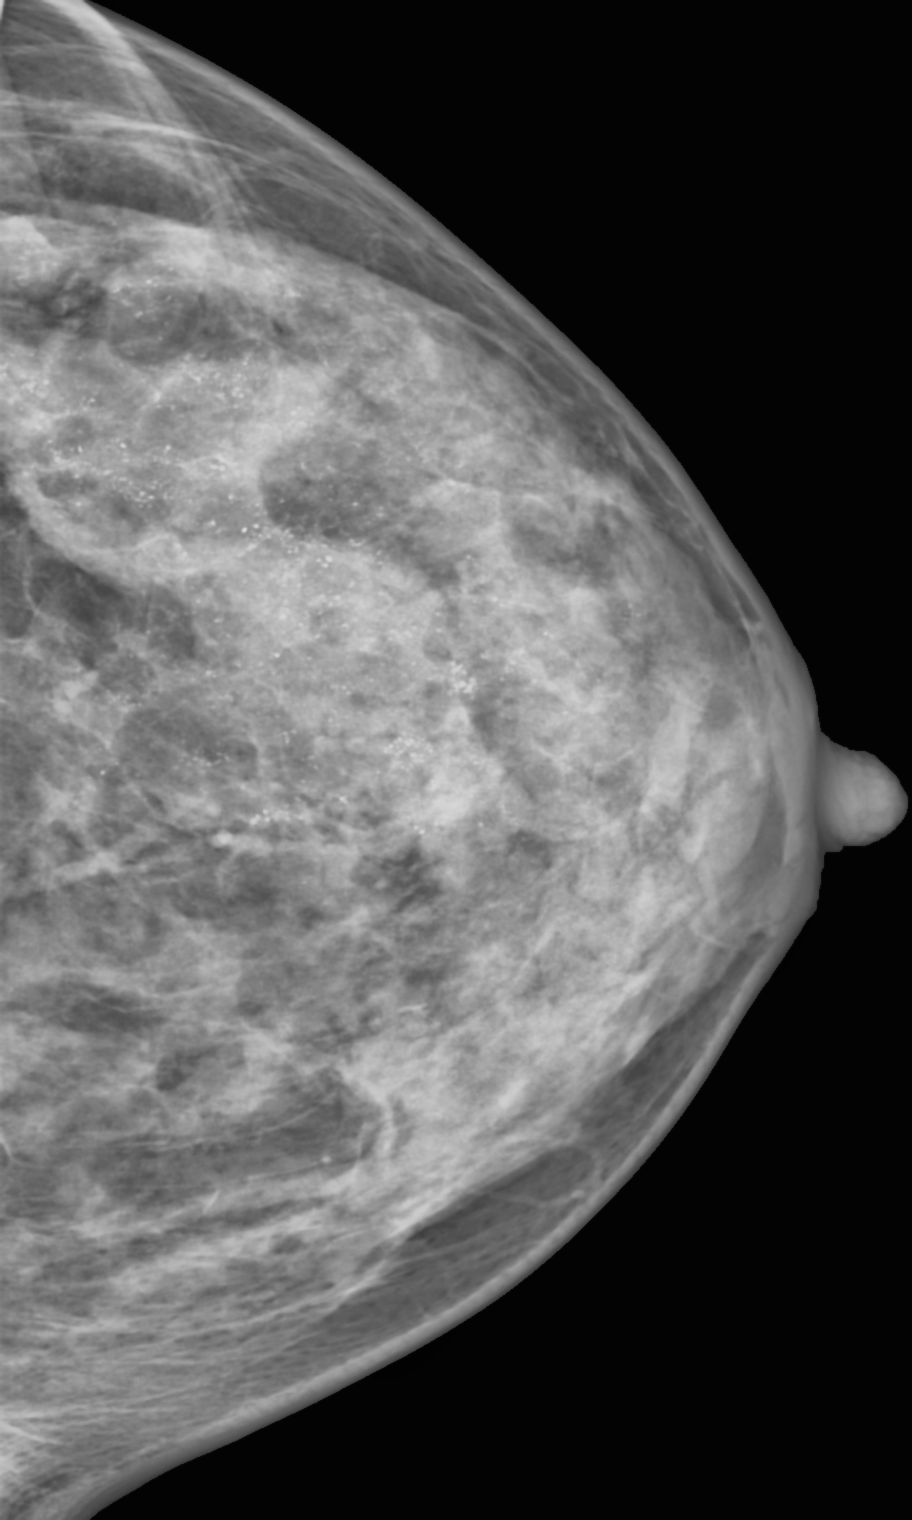
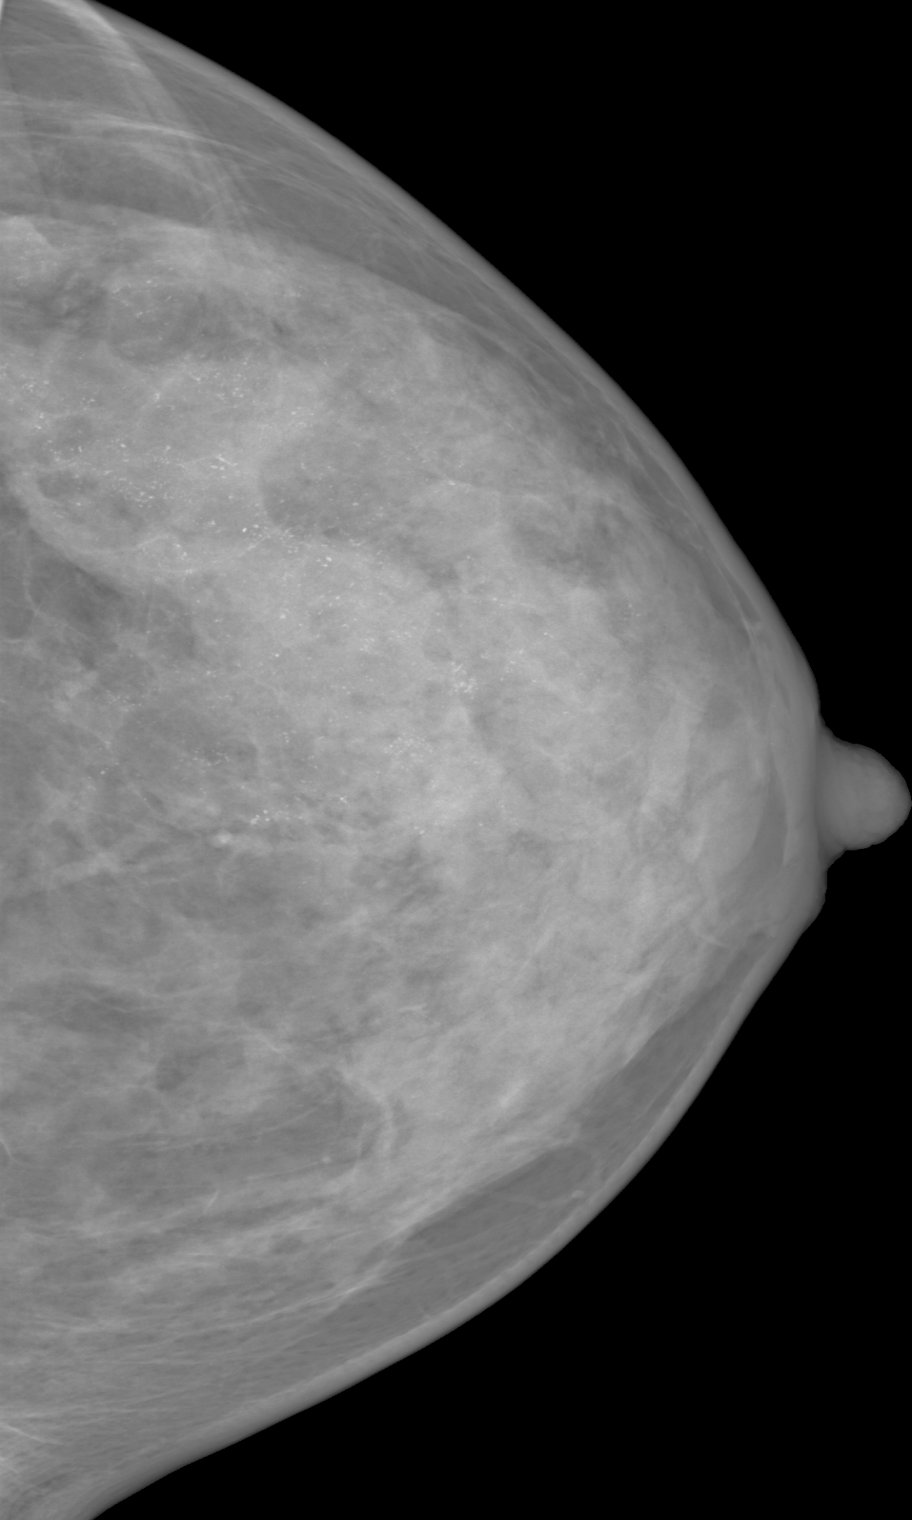
feat: improve image detection workflow
- Add preprocessing before image detection
- Adjust parameters of main detection function for new requirements
- Restore all sample images to original(raw) version

diff --git a/src/model.py b/src/model.py
@@ -16,7 +16,7 @@ from __future__ import annotations
 
 from dataclasses import dataclass, field
 from pathlib import Path
-from typing import Union
+from typing import Union, Literal
 
 import cv2
 import numpy as np
@@ -269,3 +269,62 @@ class MammoPearlPredictor:
                 "Asymmetry_Distortion": float(probs[2]),
             },
         )
+
+
+def preprocess_mammogram(
+        image_bytes: bytes,
+        output_format: Literal["png", "jpg", "jpeg"] = "png",
+) -> bytes:
+    """
+    对乳腺X光片执行完整的预处理流水线，包含以下三个步骤：
+        1. 乳腺区域分割 (Otsu阈值 + 最大轮廓提取)：去除背景及人工标记（如标签、箭头等）
+        2. 双边滤波去噪：在去除纹理噪声的同时保留结节/肿块的边缘及钙化点
+        3. CLAHE 对比度增强：提升局部微小病灶的可视对比度
+    参数:
+        image_bytes: PNG/JPEG 等格式编码的原始乳腺X光片图像字节流。
+        output_format: 输出图像的编码格式，
+            可选 "png"、"jpg" 或 "jpeg"。默认为 "png"。
+    返回:
+        bytes: 预处理后的图像字节流，格式由 output_format 指定。处理失败时返回空字节。
+    """
+    # 步骤 0: 参数校验
+    output_format = output_format.lower()
+    if output_format not in ("png", "jpg", "jpeg"):
+        output_format = "png"
+
+    # 步骤 1: 解码
+    img_array = np.frombuffer(image_bytes, dtype=np.uint8)
+    img = cv2.imdecode(img_array, cv2.IMREAD_GRAYSCALE)
+    if img is None:
+        return b""
+
+    # 步骤 2: 乳腺区域分割
+    # Otsu 二值化，将前景（乳腺组织）与背景（暗区、标记等）分离
+    _, thresh = cv2.threshold(img, 0, 255, cv2.THRESH_BINARY + cv2.THRESH_OTSU)
+
+    # 形态学开运算：去除孤立小噪点、断开标记与乳腺之间的细连接
+    kernel = np.ones((5, 5), np.uint8)
+    opening = cv2.morphologyEx(thresh, cv2.MORPH_OPEN, kernel, iterations=2)
+
+    # 提取最大连通区域（即乳腺组织区域）
+    contours, _ = cv2.findContours(opening, cv2.RETR_EXTERNAL, cv2.CHAIN_APPROX_SIMPLE)
+    if contours:
+        largest_contour = max(contours, key=cv2.contourArea)
+        mask = np.zeros(img.shape, dtype=np.uint8)
+        cv2.drawContours(mask, [largest_contour], -1, 255, -1)
+        img = cv2.bitwise_and(img, img, mask=mask)
+
+    # 步骤 3: 双边滤波去噪
+    # 双边滤波在平滑噪声的同时能保留强边缘（如肿块边界、钙化点）
+    img = cv2.bilateralFilter(img, d=5, sigmaColor=50, sigmaSpace=50)
+
+    # 步骤 4: CLAHE 对比度增强
+    clahe = cv2.createCLAHE(clipLimit=2.0, tileGridSize=(8, 8))
+    img = clahe.apply(img)
+
+    # 步骤 5: 编码输出
+    ext = f".{output_format}"
+    success, encoded = cv2.imencode(ext, img)
+    if not success:
+        return b""
+    return encoded.tobytes()

diff --git a/src/v1.py b/src/v1.py
@@ -1,4 +1,5 @@
 import os
+from pathlib import Path
 from typing import Tuple, Union
 
 from src.utils import generate_short_unique_time_str, get_current_time, write_to_file, \
@@ -9,7 +10,7 @@ from src.utils_db import check_if_usr_exist, verify_UserAccount_password, save_U
 from src.utils_crypto import encrypt_data, decrypt_data, generate_random_key_for_crypto
 from config.configs import BASE_CONFIG, AI_CONFIG
 from src.logger_config import Logger
-from src.model import MammoPearlPredictor, PredictionResult
+from src.model import MammoPearlPredictor, PredictionResult, preprocess_mammogram
 from src.manage_weights import merge_files
 
 DOTS = '..' if os.path.basename(os.getcwd()) == 'src' else '.'
@@ -37,10 +38,11 @@ def _get_predictor() -> MammoPearlPredictor:
     return _predictor
 
 
-def v1_inner(pic: bytes) -> Tuple[bool, str, float]:
+def v1_inner(raw_pic: bytes, pic_format: str = "png") -> Tuple[bool, str, float]:
     """
     处理函数。True: 阳性，患病； False: 阴性，不患病
-    :param pic: The picture to check if ill or not.
+    :param raw_pic: The picture to check if ill or not.
+    :param pic_format: The format of the processed image.
     :return: (是否患病, 患病类型（阴性时为空字符串）, 综合置信度)
     """
     try:
@@ -51,7 +53,12 @@ def v1_inner(pic: bytes) -> Tuple[bool, str, float]:
         Logger.error(f"Unexpected error while loading predictor: {e}")
         return True, '模型加载失败', 0.0
 
-    result: PredictionResult = predictor.predict(image=pic)
+    processed_pic: bytes = preprocess_mammogram(raw_pic, output_format=pic_format)
+    if not processed_pic:
+        Logger.error("Error in preprocessing the image.")
+        return True, '图片预处理失败', 0.0
+
+    result: PredictionResult = predictor.predict(image=processed_pic)
 
     if not result.has_lesion:
         # 阴性：综合置信度取 Stage 1 的阴性把握度
@@ -97,7 +104,8 @@ def detect_if_Breast_Cancer_picture(pic: bytes, picName: str, usrToken: str) -> 
         # logs were written in func 'save_a_picture'
         print(f"警告：图片'{output_path}'保存失败。详情见日志")
 
-    RES_TF, RES_TYPE, RES_ACC = v1_inner(pic)
+    suffix = Path(picName).suffix.lstrip('.')
+    RES_TF, RES_TYPE, RES_ACC = v1_inner(pic, pic_format=suffix)
 
     # be careful that func showResultModal() in detect-main.js also uses name "阴性".
     res_A = '阳性' if RES_TF else '阴性'
